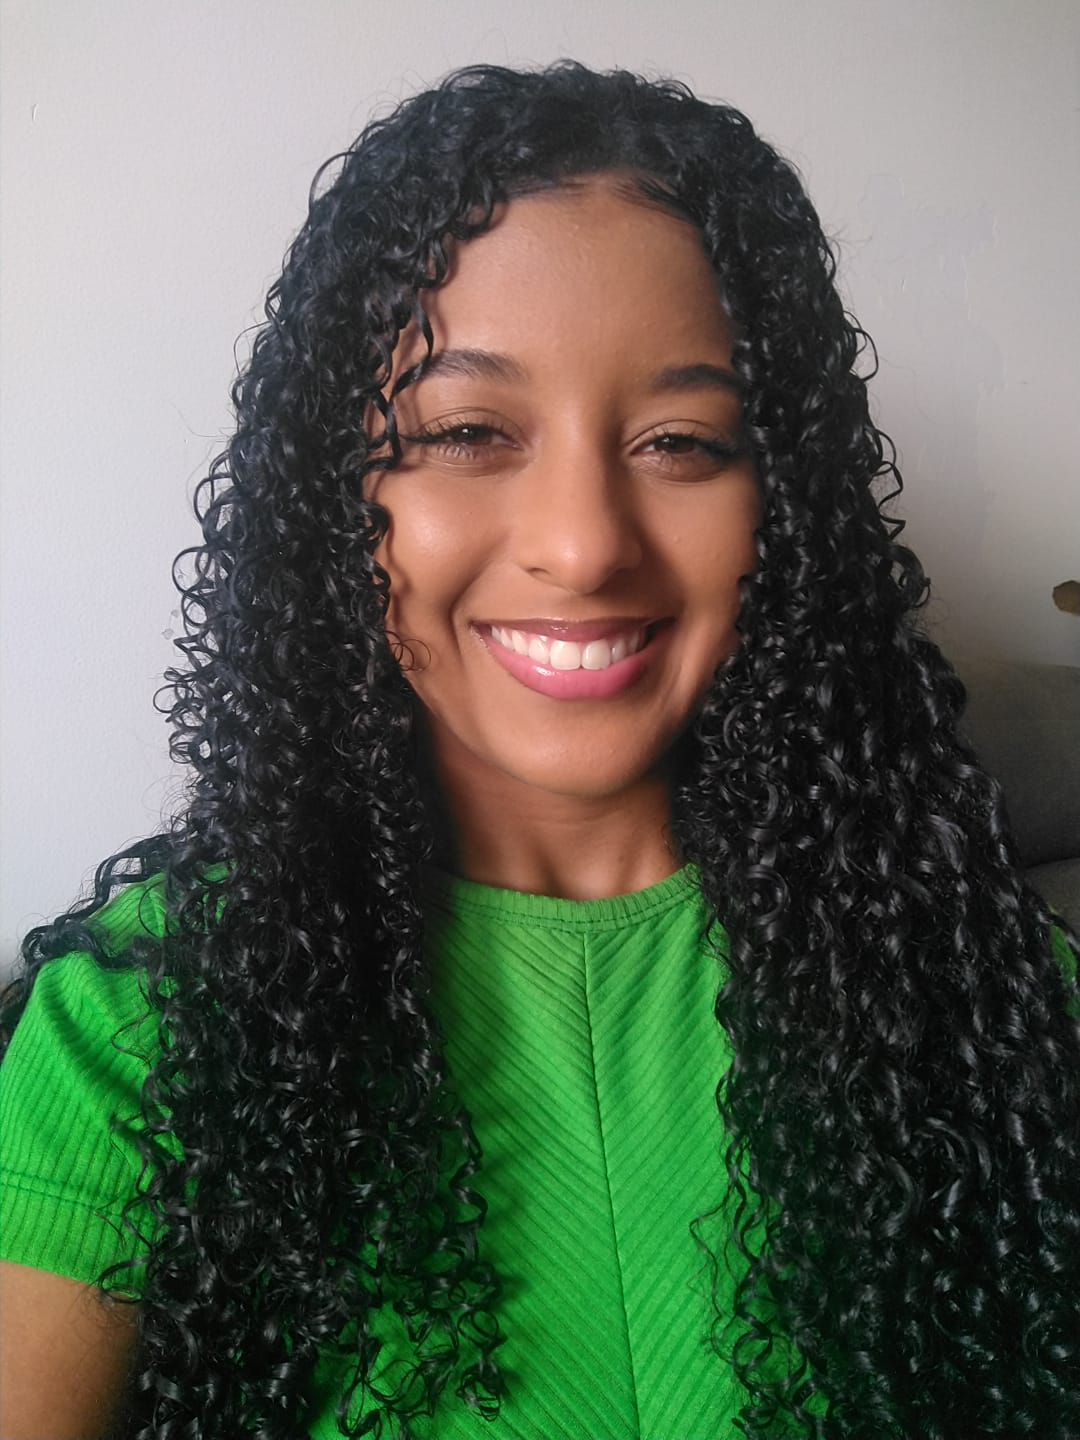
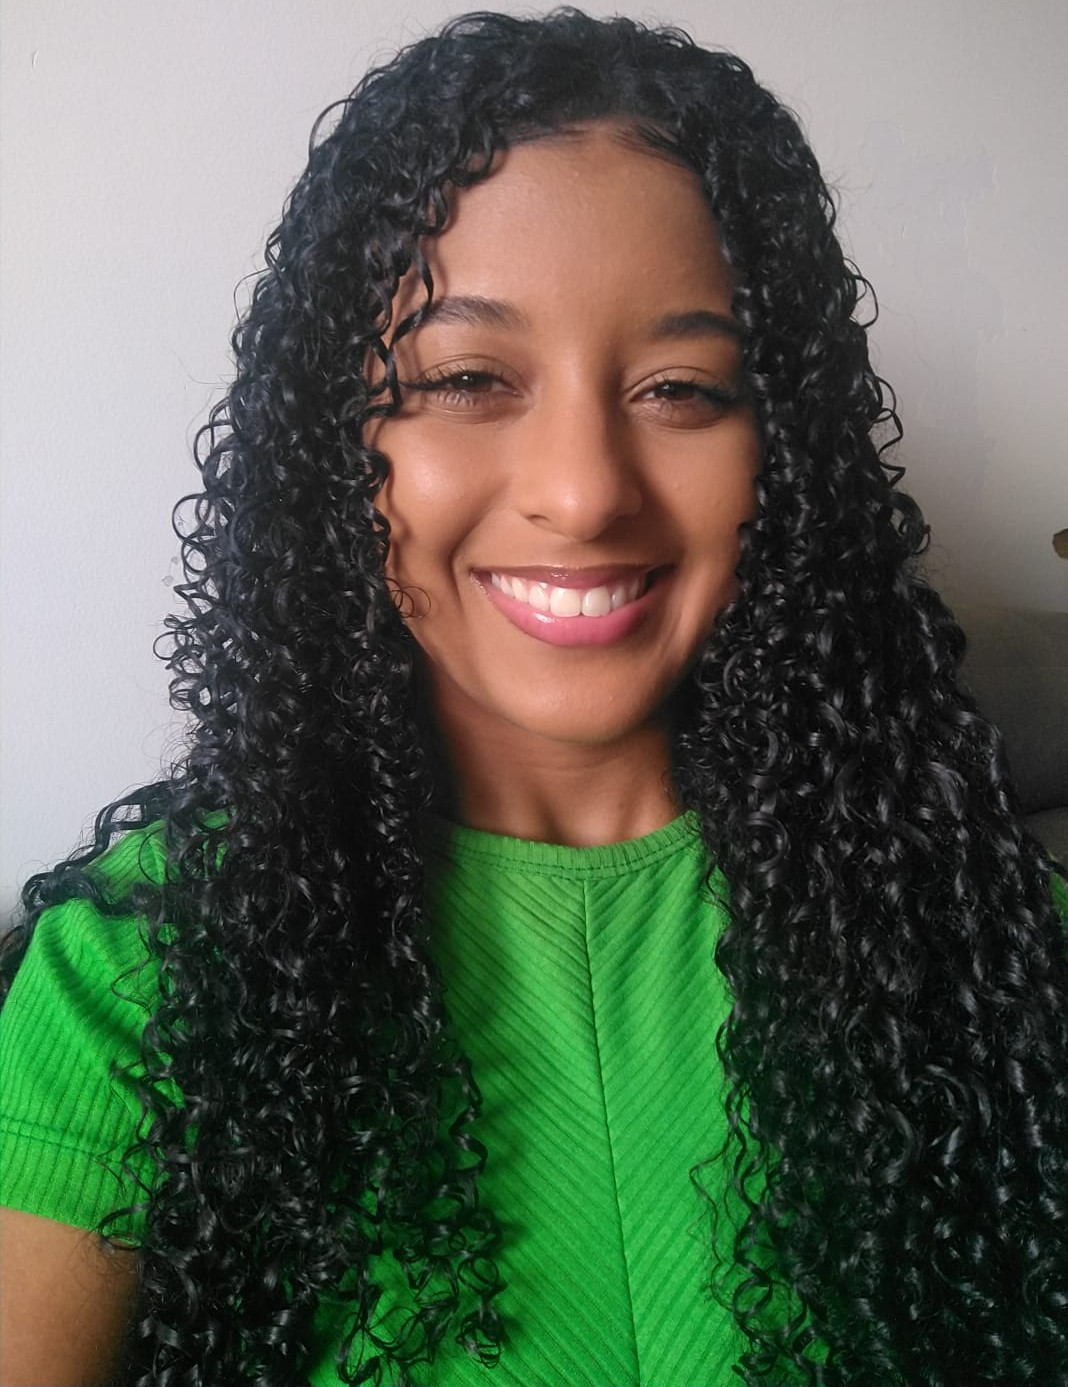
atualizei
novo perfil

Changed region(s): [[0.0, 0.0, 1.0, 1.0], [0.1236, 0.9611, 0.1854, 1.0], [0.8343, 0.9921, 0.8961, 1.0]]

diff --git a/css/main.css b/css/main.css
@@ -1,14 +1,33 @@
-    body{
-background-color:beige;
+/* Meu primeiro comentário*/
+/* Reset do css*/
+*{
+margin: 0; /*Margem*/
+padding: 0; /* Preenchimento*/
+}
 
-    }
-   
-    h1{
-        font-family: 'Courier New', Courier, monospace;
-        font-size:  150px;
-        color:green;
-    }
-   
-p{
-    color:blue
+body{
+    height:100% ; /*altura*/
+    width: 100%; /*largura*/
+    display:flex;
+    justify-content:center;
+    background: linear-gradient(#73a78d #07662f);
+    background-repeat: no-repeat;
+}
+.imagem{
+    display: flex;
+    justify-content: center;
+}
+.imagem img{
+    width: 170px;
+    border-radius: 200px;
+    margin-top: 30px;
+}
+.name{
+    margin-top: 18px;
+    display: flex;
+    justify-content:center ;
+    font-size: 32px;
+    font-weight: 600;
+    color: #73a78d;
+    font-family: 'Franklin Gothic Medium', 'Arial Narrow', Arial, sans-serif;
 }

diff --git a/index.html b/index.html
@@ -33,10 +33,14 @@
         <span> <a href="https://br.pinterest.com/jessaraujinho/"> Pinterest </a> </span>
     </div>
     <div class="icon">
-        <a heref="https://www.tiktok.com/jess.brg/" target="_blank">
+        <a heref="https://www.tiktok.com/@jess.brg?/" target="_blank">
          <i class="ph ph-Tiktok-logo"></i>
         </a>
-        <span> <a href="https://www.tiktok.com/jess.brg/">Tiktok </a></span>
+        <span> <a href="https://www.tiktok.com/@jess.brg?"> Tiktok </a></span>
+       </div>
+       <div class="email">
+        <a href="mailto:jessicaaraujodossantos353@gmail.com">
+            <i class="ph ph-microsoft-outlook-logo"></i></a>
        </div>
 
     </div>
